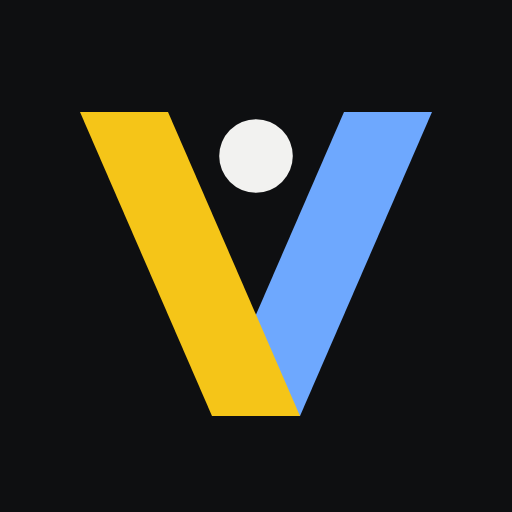
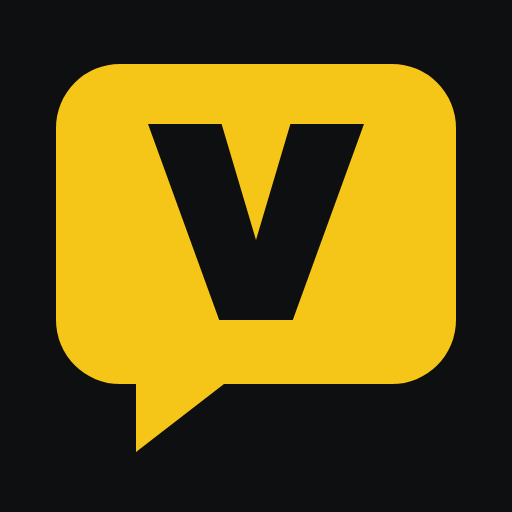
feat: VOZ voice-bubble mark; My teams stats as cards
- New mark ("voz" = voice): a gold speech bubble with the V cut out, on the dark square;
  chosen over the two-arm V, a split ball and a motion V for legibility at 16 px.
  Regenerated favicon.svg/.ico, apple-touch-icon and install icons; NewsLogoMark updated
- My teams: teams / leagues / players followed shown as stat cards, save state below

diff --git a/app/pages/my-teams.vue b/app/pages/my-teams.vue
@@ -85,12 +85,14 @@ const loginLink = computed(() => ({ path: '/login', query: { redirect: route.ful
     </div>
 
     <template v-else-if="options">
+      <!-- What the reader follows, as stat cards; the save state sits under them. -->
+      <ul class="stats" :aria-label="t('prefs.statsLabel')">
+        <li v-for="k in (['teams', 'leagues', 'players'] as const)" :key="k" class="stat">
+          <span class="stat-n num">{{ prefs[k].length }}</span>
+          <span class="stat-l">{{ t(`prefs.count.${k}Label`, prefs[k].length) }}</span>
+        </li>
+      </ul>
       <p class="summary" role="status" aria-live="polite">
-        {{ t('prefs.summary', {
-          teams: t('prefs.count.teams', { n: prefs.teams.length }, prefs.teams.length),
-          leagues: t('prefs.count.leagues', { n: prefs.leagues.length }, prefs.leagues.length),
-          players: t('prefs.count.players', { n: prefs.players.length }, prefs.players.length),
-        }) }}
         <span v-if="status === 'saving'" class="state">{{ t('prefs.saving') }}</span>
         <span v-else-if="status === 'saved'" class="state state--ok"><PhCheck :size="14" weight="bold" aria-hidden="true" /> {{ t('prefs.saved') }}</span>
         <span v-else-if="status === 'error'" class="state state--error">{{ t('prefs.saveError') }}</span>
@@ -210,7 +212,11 @@ const loginLink = computed(() => ({ path: '/login', query: { redirect: route.ful
   min-height: 44px; padding: 0 20px; display: inline-flex; align-items: center; border-radius: 999px;
   background: var(--accent); color: var(--on-accent); font-weight: 700; text-decoration: none;
 }
-.summary { margin: 20px 0 0; display: flex; flex-wrap: wrap; align-items: center; gap: 6px 12px; font-size: 14px; color: var(--summary); }
+.stats { list-style: none; margin: 24px 0 0; padding: 0; display: grid; grid-template-columns: repeat(3, minmax(0, 1fr)); gap: 12px; }
+.stat { padding: 16px; border: 1px solid var(--line-strong); border-radius: 4px; display: flex; flex-direction: column; gap: 4px; }
+.stat-n { font-family: var(--font-display); font-size: 36px; line-height: 1; font-weight: 700; color: var(--headline); }
+.stat-l { font-size: 13px; color: var(--summary); }
+.summary { min-height: 20px; margin: 10px 0 0; display: flex; flex-wrap: wrap; align-items: center; gap: 6px 12px; font-size: 14px; color: var(--summary); }
 .state { display: inline-flex; align-items: center; gap: 4px; font-weight: 600; color: var(--meta); }
 .state--ok { color: var(--win); }
 .state--error { color: var(--loss); }

diff --git a/app/components/news/LogoMark.vue b/app/components/news/LogoMark.vue
@@ -1,22 +1,19 @@
 <script setup lang="ts">
-// The VOZ mark (also public/favicon.svg): a gold arm (your team) crossing a blue arm (the opponent)
-// into one point, with the ball between them. Drawn with the colour tokens; decorative.
+// The VOZ mark (also public/favicon.svg): "voz" is voice, so a gold speech bubble with the V cut
+// out, on the dark scoreboard square. Drawn with the colour tokens; decorative.
 withDefaults(defineProps<{ size?: number }>(), { size: 36 })
 </script>
 
 <template>
   <svg class="mark" :width="size" :height="size" viewBox="0 0 64 64" aria-hidden="true" focusable="false">
     <rect width="64" height="64" rx="14" class="bg" />
-    <path d="M43 14h11L37.5 52h-11z" class="away" />
-    <path d="M10 14h11l16.5 38h-11z" class="home" />
-    <circle cx="32" cy="19.5" r="4.6" class="ball" />
+    <path d="M15 8h34a8 8 0 0 1 8 8v24a8 8 0 0 1-8 8H28l-11 8.5V48h-2a8 8 0 0 1-8-8V16a8 8 0 0 1 8-8z" class="bubble" />
+    <path d="M18.5 15.5h9.2L32 30l4.3-14.5h9.2L36.6 40h-9.2z" class="bg" />
   </svg>
 </template>
 
 <style scoped>
 .mark { display: block; flex: 0 0 auto; }
 .bg { fill: var(--board); }
-.away { fill: var(--away); }
-.home { fill: var(--accent); }
-.ball { fill: var(--board-text); }
+.bubble { fill: var(--accent); }
 </style>

diff --git a/CLAUDE.md b/CLAUDE.md
@@ -125,5 +125,5 @@ Nuxt 4 full stack; API keys live in `.env` (gitignored) and are only used server
 - `main.css` defines global classes `.app-shell .card .chip .badge .select .eyebrow .muted .display .num .sr-only`.
   Use them only for their global meaning; never reuse these names for component-specific styles (scoped
   styles still merge with the global rule; `.card`, `.chip` and `.badge` collisions have each caused layout bugs).
-- Brand mark: `NewsLogoMark` (tokens `--board`, `--accent`, `--away`, `--board-text`) and `public/favicon.svg` share one drawing (gold arm = your team crossing the blue arm = opponent, ball between). After changing it, regenerate `favicon.ico` (16/32/48), `apple-touch-icon.png` (180, full-bleed), `icon-192/512.png`.
+- Brand mark: `NewsLogoMark` (tokens `--board`, `--accent`) and `public/favicon.svg` share one drawing ("voz" = voice: a gold speech bubble with the V cut out, on the dark square). After changing it, regenerate `favicon.ico` (16/32/48), `apple-touch-icon.png` (180, full-bleed), `icon-192/512.png`.
 - Never copy articles or photos from other news sites into the app or mock data; story text comes from our data, images are crests + data visuals.
